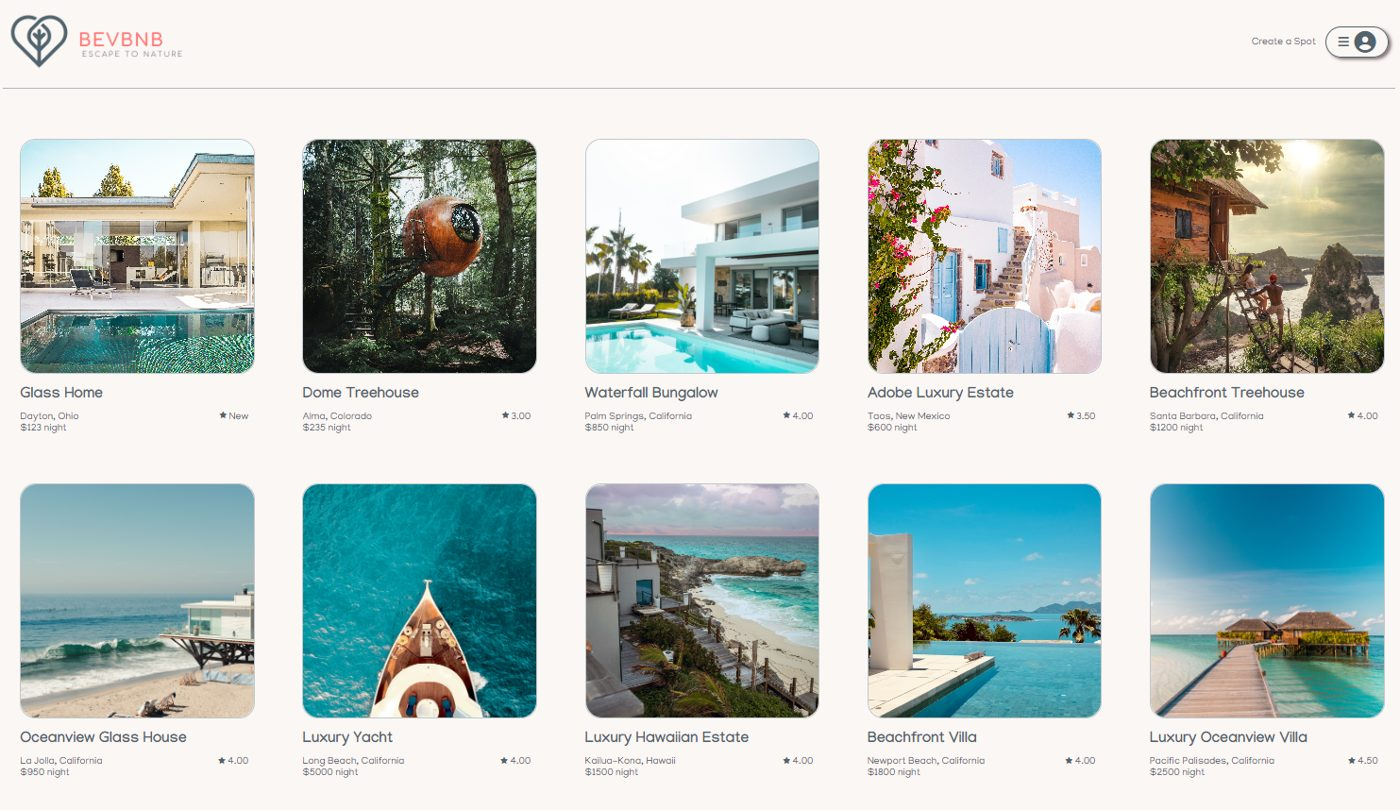
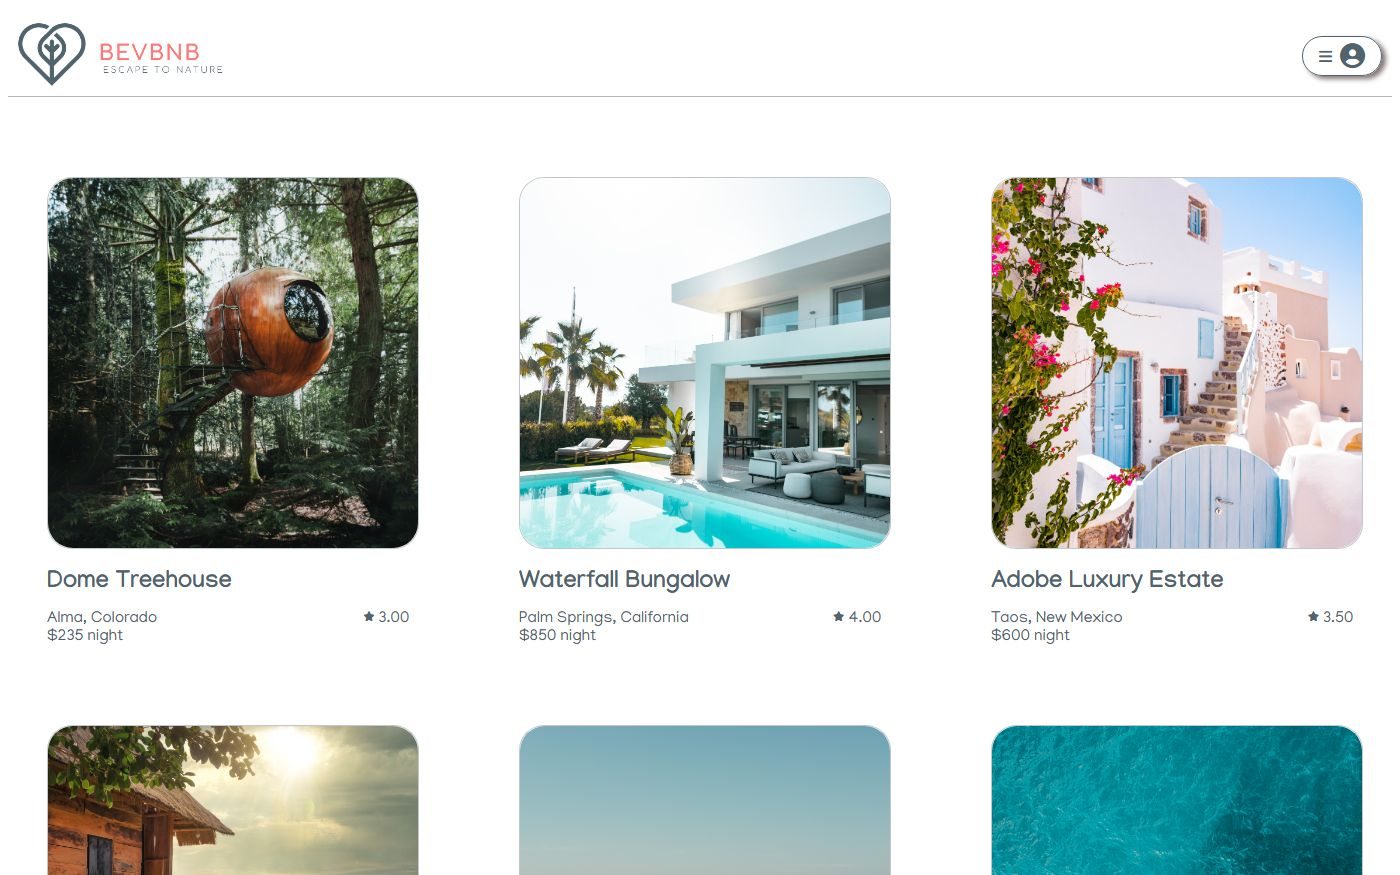
Live demo links and fresh screenshots for the three apps
Claude-Session: https://claude.ai/code/session_014oXCZZnSTRaF9sxbwEK82q

diff --git a/index.html b/index.html
@@ -75,26 +75,28 @@
 
       <section id="work" aria-labelledby="fs-h">
         <h2 id="fs-h">Full-stack foundations</h2>
-        <p class="section-intro">Apps I built at App Academy. I'm updating them to current tools, and their live demos are coming back online.</p>
+        <p class="section-intro">Apps I built at App Academy, now updated to current tools and tested on every change. Each demo has a one-click demo login. They run on a free server, so the first visit can take up to a minute to wake up.</p>
         <div class="list">
           <article>
-            <div class="shot"><img src="assets/img/bevbnb.jpg" alt="BevBnB home page: a grid of vacation rentals with photos, ratings and nightly prices." width="1400" height="810" loading="lazy"></div>
+            <div class="shot"><img src="assets/img/bevbnb.jpg" alt="BevBnB home page: a grid of vacation rentals with photos, ratings and nightly prices." width="1400" height="875" loading="lazy"></div>
             <h3>BevBnB</h3>
             <p class="stack">React, Redux, Express, Sequelize, PostgreSQL</p>
             <p>A vacation-rental site: list a place, browse spots, book dates and leave reviews.</p>
-            <div class="actions"><a class="btn ghost" href="https://github.com/duranbeverly/BevBNB-Project">Code</a></div>
+            <div class="actions"><a class="btn" href="https://bevbnb-la31.onrender.com/">Live demo</a><a class="btn ghost" href="https://github.com/duranbeverly/BevBNB-Project">Code</a></div>
           </article>
           <article>
+            <div class="shot"><img src="assets/img/beleaf.jpg" alt="Be-Leaf's plant shop: a grid of houseplants with names and prices." width="1400" height="875" loading="lazy"></div>
             <h3>Be-Leaf</h3>
             <p class="stack">React, Redux, Flask, SQLAlchemy, PostgreSQL</p>
             <p>A plant marketplace with listings, a cart and checkout, reviews and favorites.</p>
-            <div class="actions"><a class="btn ghost" href="https://github.com/duranbeverly/be-leaf">Code</a></div>
+            <div class="actions"><a class="btn" href="https://be-leaf.onrender.com/">Live demo</a><a class="btn ghost" href="https://github.com/duranbeverly/be-leaf">Code</a></div>
           </article>
           <article>
+            <div class="shot"><img src="assets/img/discordia.jpg" alt="Discordia's landing page with a Log In button and the four developers credited at the bottom." width="1400" height="875" loading="lazy"></div>
             <h3>Discordia</h3>
             <p class="stack">React, Redux, Flask, Socket.IO, PostgreSQL</p>
             <p>A Discord-style chat app with servers, channels, direct messages and live updates. Built with a team of four.</p>
-            <div class="actions"><a class="btn ghost" href="https://github.com/duranbeverly/Discord-Clone">Code</a></div>
+            <div class="actions"><a class="btn" href="https://discordia-nmgn.onrender.com/">Live demo</a><a class="btn ghost" href="https://github.com/duranbeverly/Discord-Clone">Code</a></div>
           </article>
         </div>
       </section>
